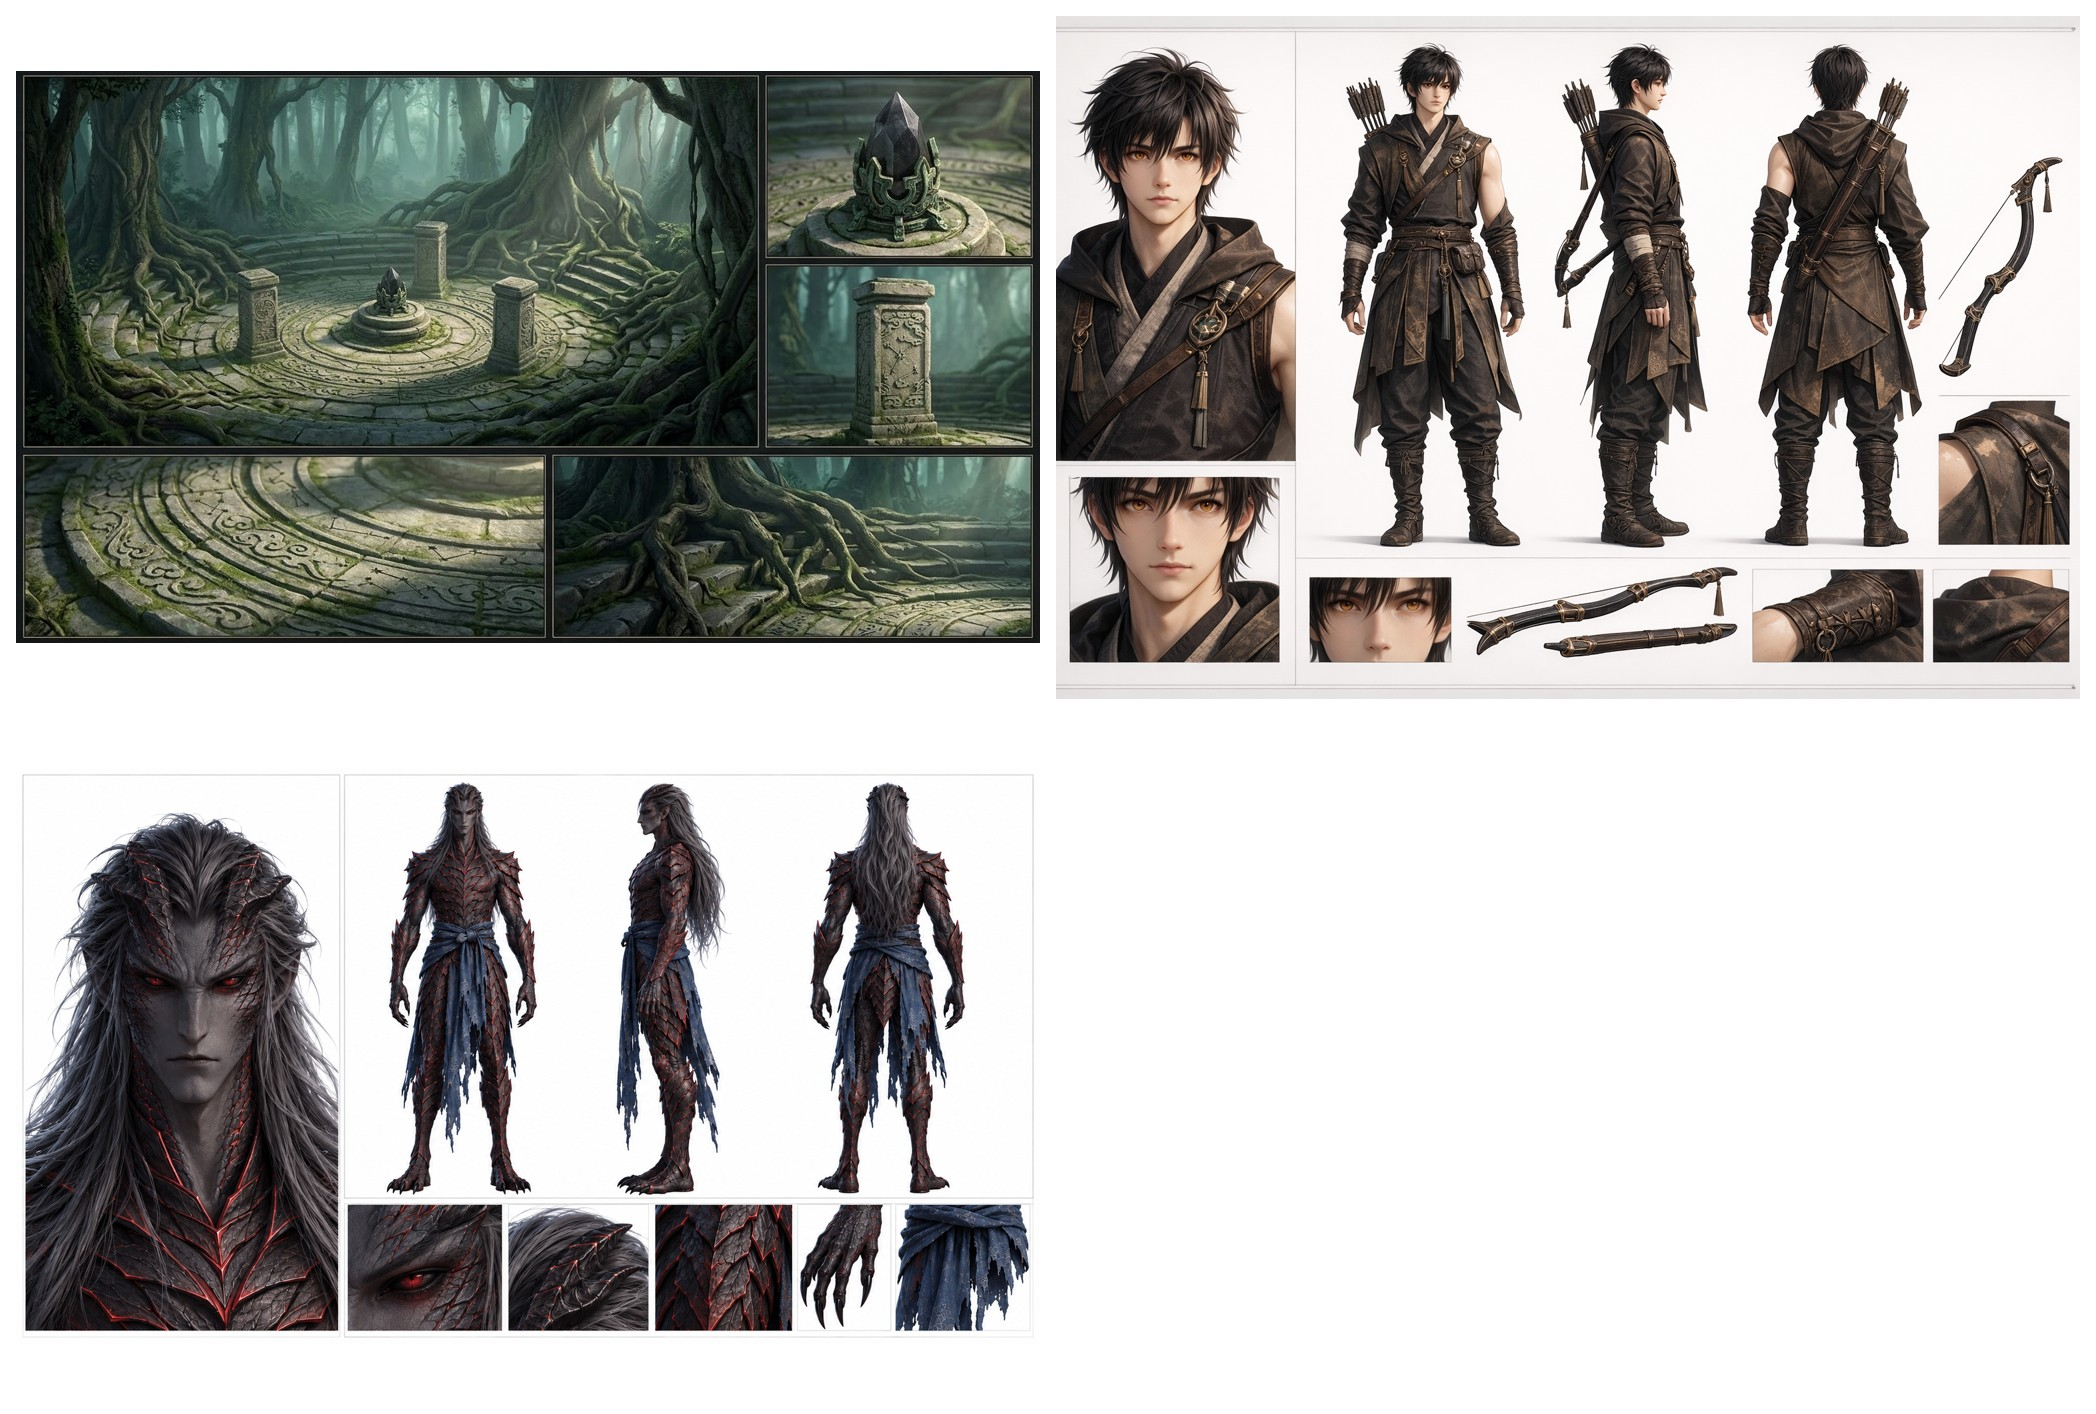
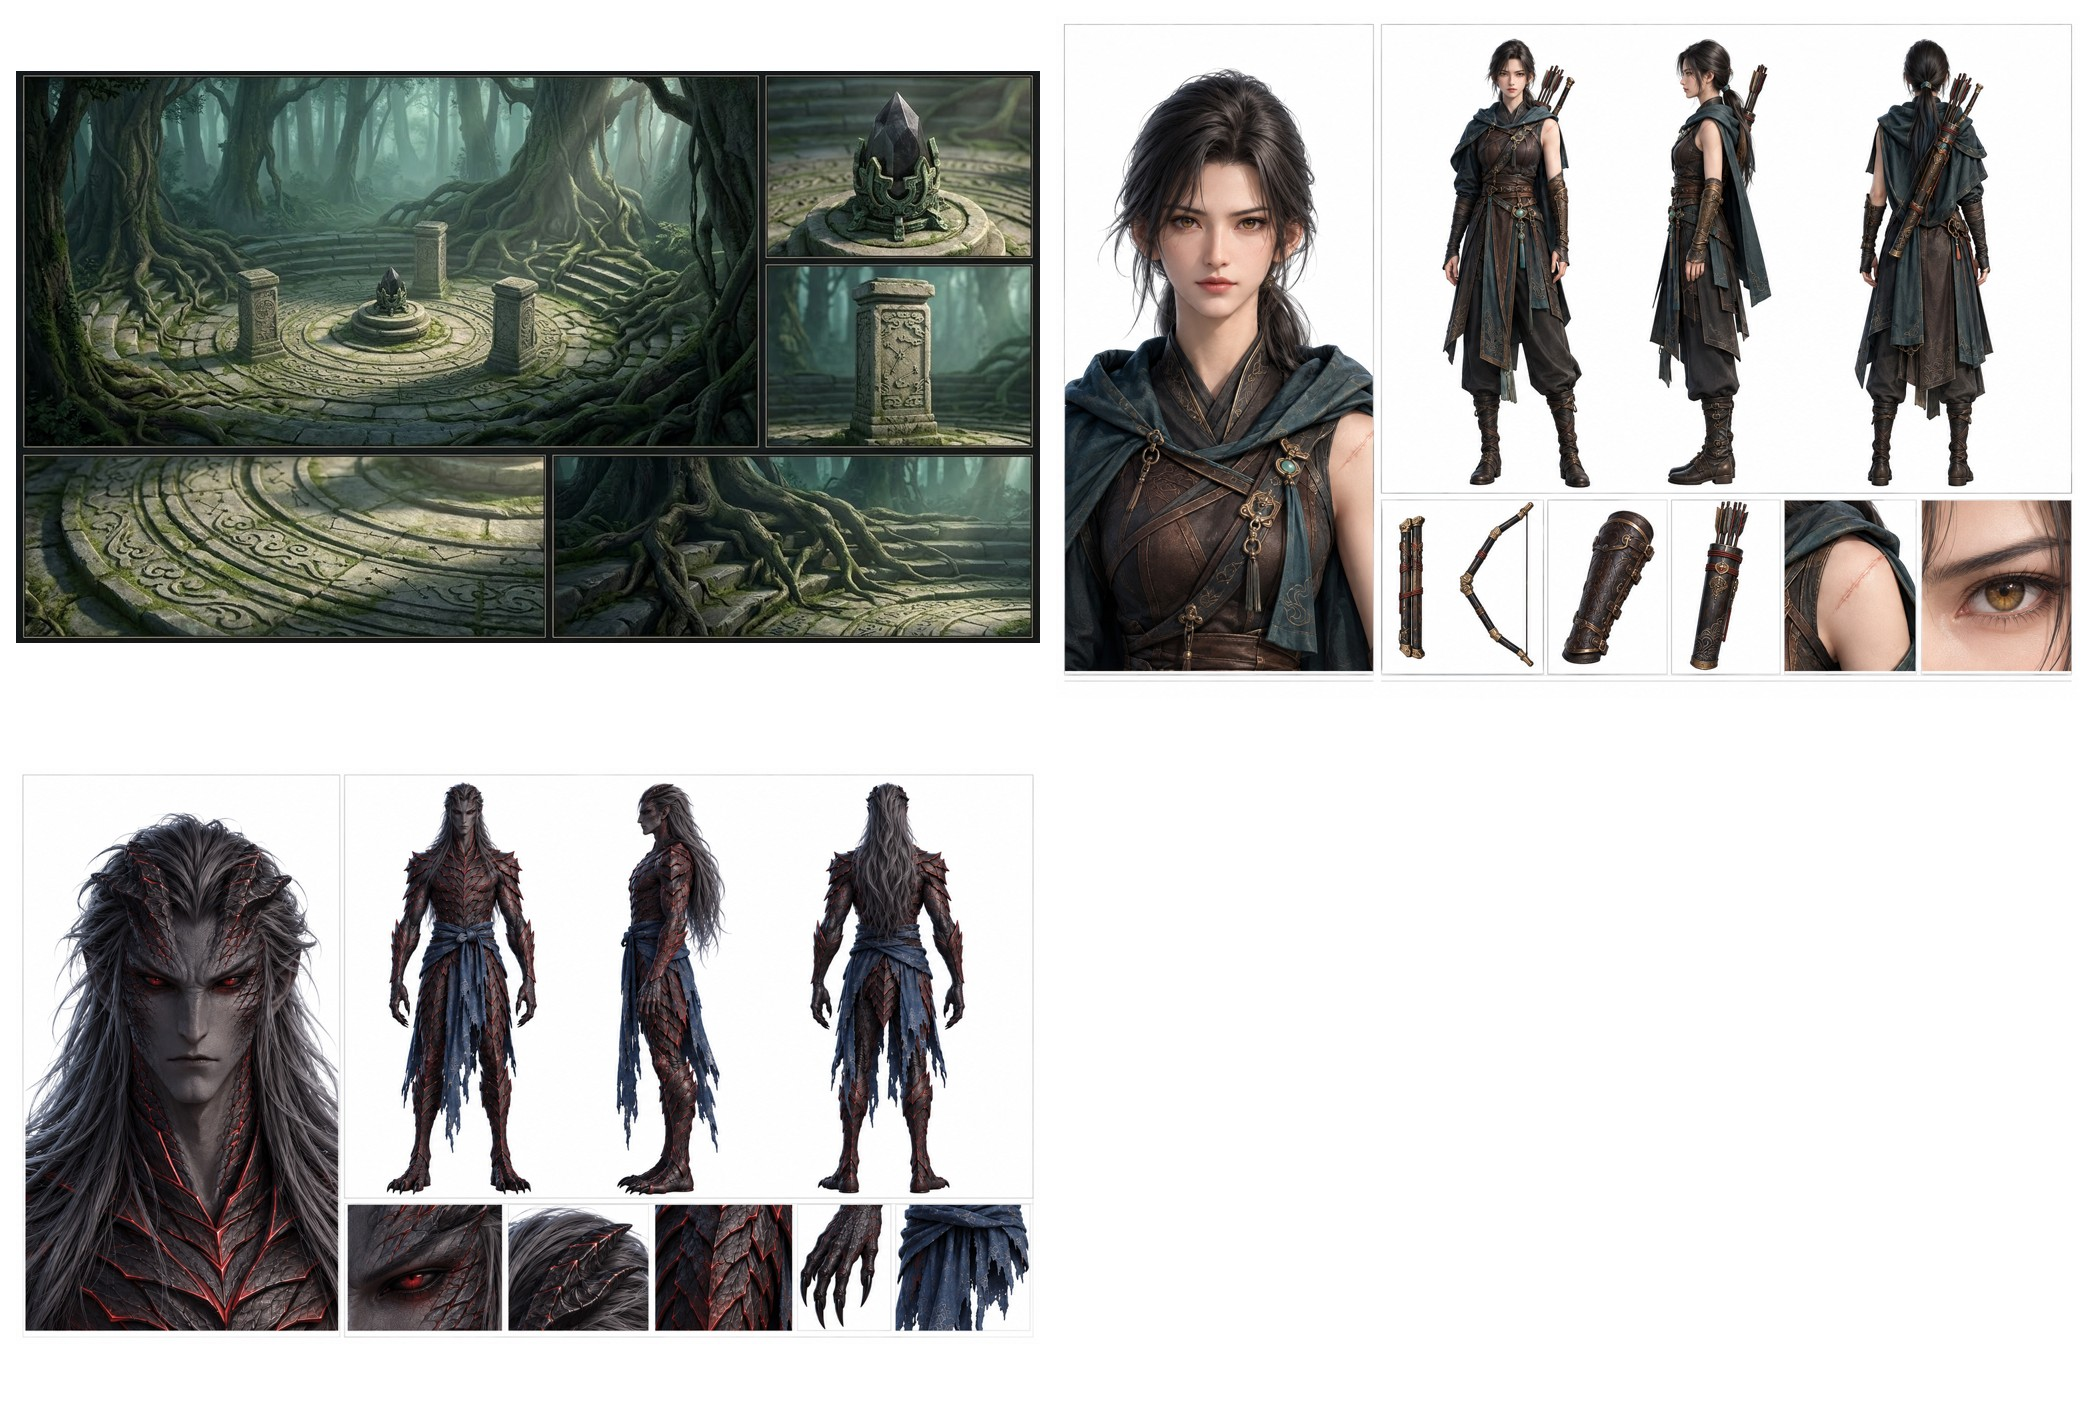
厲若楓設定圖通過（咖哩沿用）；裴含章、陸鳴鸞改以厲若楓設定圖當畫風參考；交接檔修正
Claude-Session: https://claude.ai/code/session_017YfYk6Rqfgdxwz4BghZYcX

Changed region(s): [[0.4962, 0.0, 0.9924, 0.4979]]

diff --git a/production/LF01/tools/lf01_handoff.py b/production/LF01/tools/lf01_handoff.py
@@ -124,7 +124,7 @@ def sheet_jobs():
     jobs = []
     for c in data["newCharacters"]:
         refs = [char_sheet(r) for r in c["styleRefs"]]
-        descs = [f"approved character sheet of a DIFFERENT character ({reuse['characters'][r]}) — use it ONLY as the "
+        descs = [f"approved character sheet of a DIFFERENT character ({char_name(r)}) — use it ONLY as the "
                  "rendering-style and sheet-layout reference; do not copy the face, hair, costume or weapon"
                  for r in c["styleRefs"]]
         body = (f"{g.STYLE_RENDER}\n\n{char_sheet_text(c)}\n\n{g.SHEET_RULE}\n\n"
